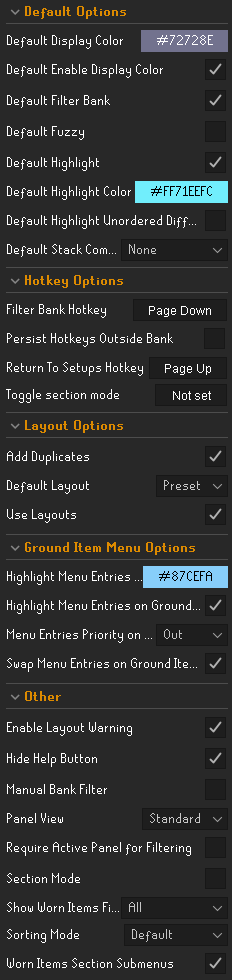
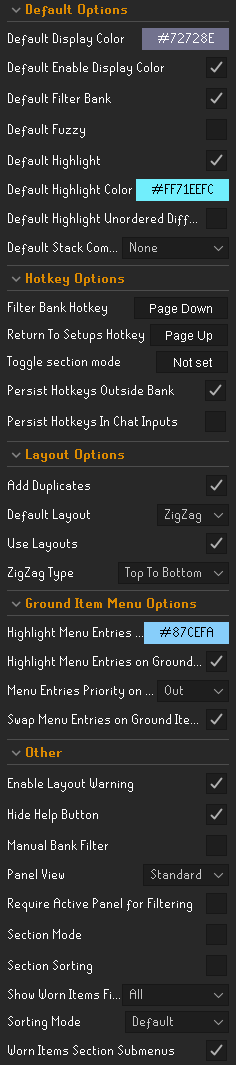
README updates for v1.22.0

diff --git a/README.md b/README.md
@@ -372,22 +372,24 @@ Hint: You can right-click the paint bucket to delete the color of a setup or sec
 ### HotKey Options
 
 * **Filter Bank Hotkey** - Pressing this will cause the bank to filter if a setup is selected and filtering is enabled for that setup. This is useful if you canceled the filter while banking and want to quickly refilter
-* **Persist Hotkeys Outside Bank** - Enabling this will cause hot keys to persist outside the bank
 * **Return To Setups Hotkey** - Pressing this key will exit the current setup and return to the overview panel where all setups are shown
 * **Toggle section mode** - Pressing this will switch to section mode
+* **Persist Hotkeys Outside Bank** - Enabling this will cause hot keys to persist outside the bank
+* **Persist Hotkeys In Chat Inputs** - Enabling this will cause hot keys to persist when a chat input (bank searching, PMs, etc.) is open
 
 ### Layout Options
 
 * **Add Duplicates** - Add duplicate items if you have multiple of that item in your setup when creating layouts
 * **Default Layout** - The default layout used when setups are created
 * **Use Layouts** - Globally enable customizable layouts. Uncheck this to disable layouts and only use classic filtering
+* **ZigZag Type** - Globally change the zigzag type for new ZigZag layouts. Top to bottom means the first item will start at the top of the zigzag and vice versa.
 
 ### Ground Item Menu Options
 
-* **Highlight Menu Entries on Ground Items** - Highlights menu entries on ground items which exist in your current setup
 * **Highlight Menu Entries Color** - Changes the color of the menu entries that are highlighted if the above option is selected
-* **Swap Menu Entries on Ground Items** - Swaps menu entries for ground items which exist in your current setup
+* **Highlight Menu Entries on Ground Items** - Highlights menu entries on ground items which exist in your current setup
 * **Menu Entries Priority on Ground Items** - Sets which ground item menu entries appear the top if the above option is selected. Either IN - inside the setup, or OUT - not in the setup
+* **Swap Menu Entries on Ground Items** - Swaps menu entries for ground items which exist in your current setup
 
 ### Other Options
 
